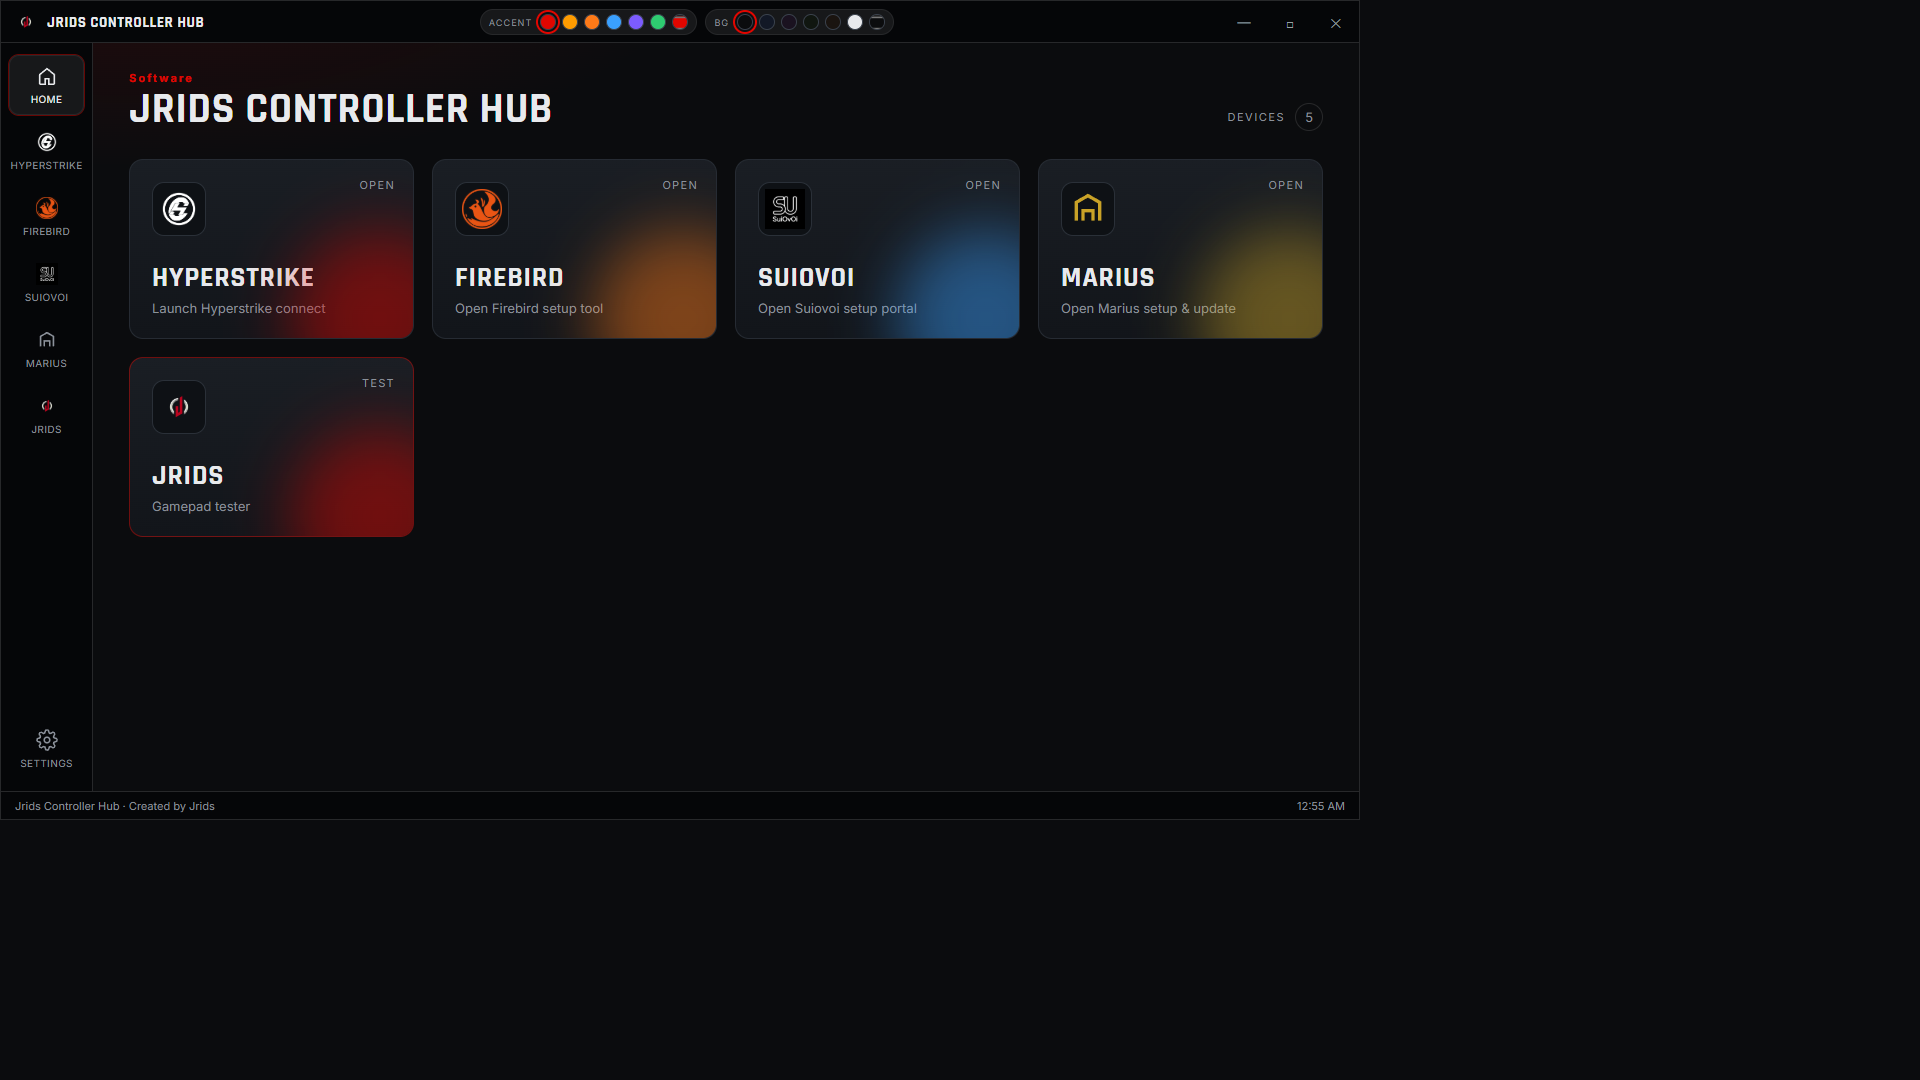
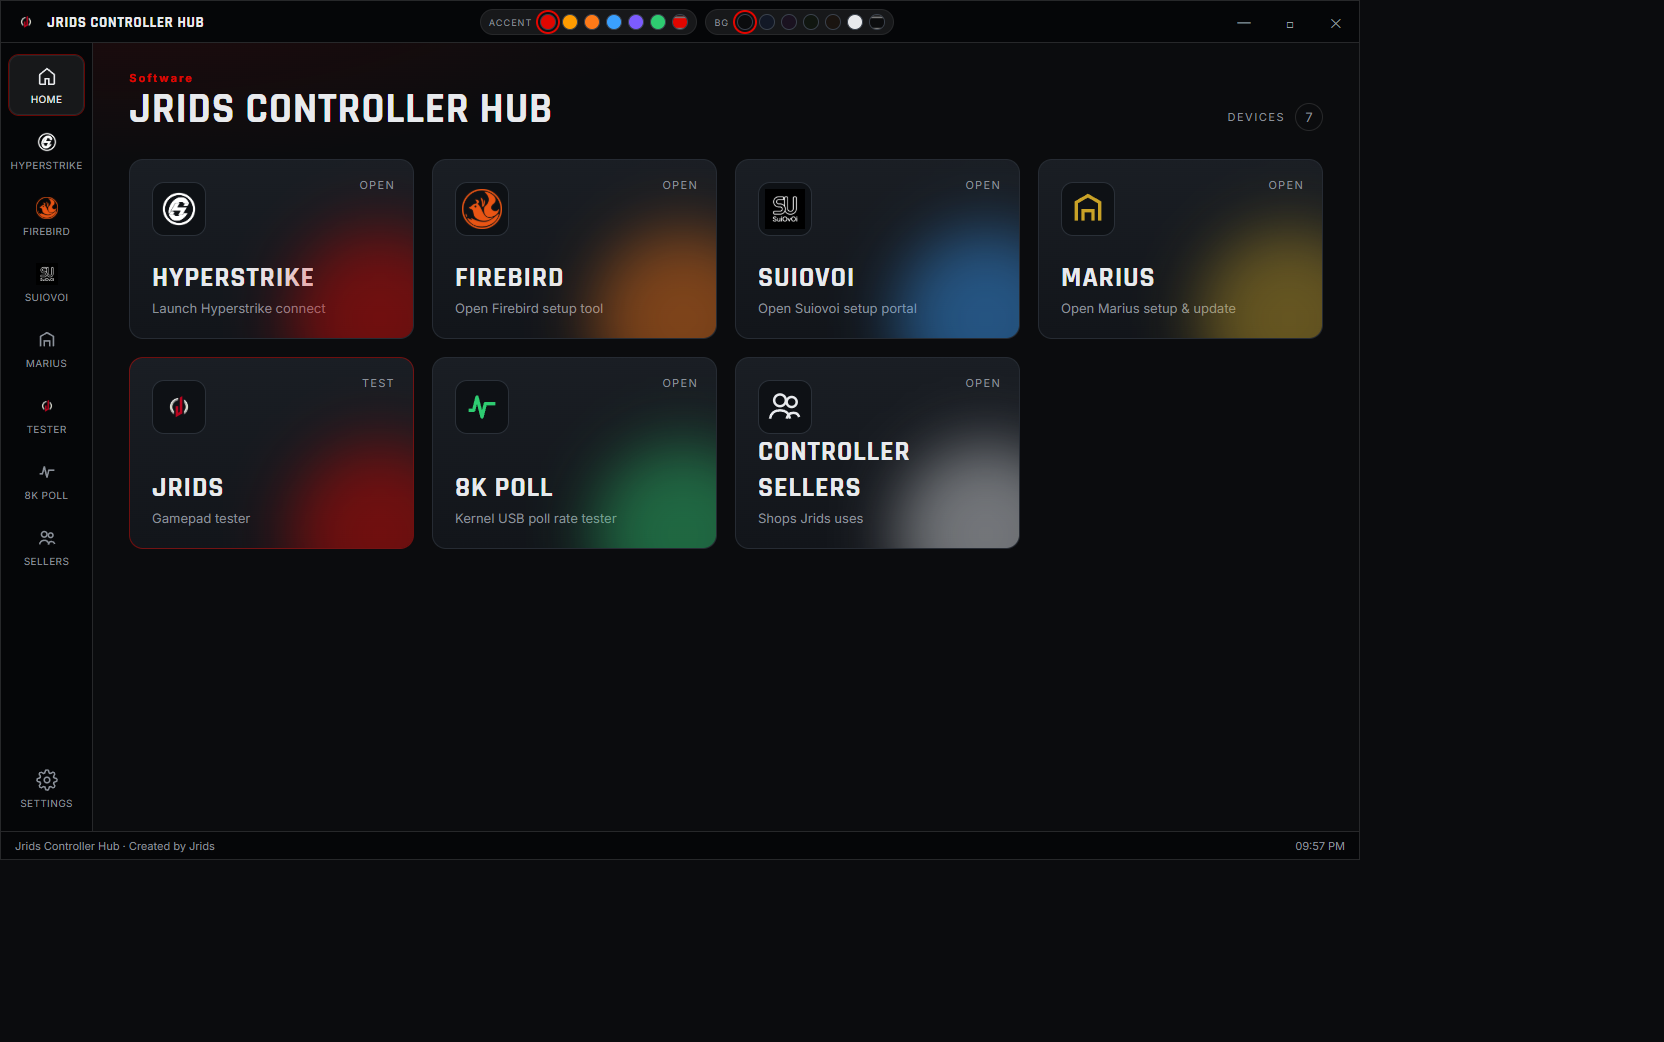
Update GitHub README screenshots to match the current hub.

diff --git a/README.md b/README.md
@@ -10,9 +10,17 @@ Windows launcher and gamepad tester created by [Jrids](https://x.com/imjrid).
 
 ![Jrids gamepad tester](docs/screenshots/tester.png)
 
+**Controller Sellers**
+
+![Jrids Controller Hub sellers](docs/screenshots/sellers.png)
+
 **Settings**
 
 ![Jrids Controller Hub settings](docs/screenshots/settings.png)
+
+**Legal notice**
+
+![Jrids Controller Hub legal notice](docs/screenshots/settings-legal.png)
 
 ## Install
 
